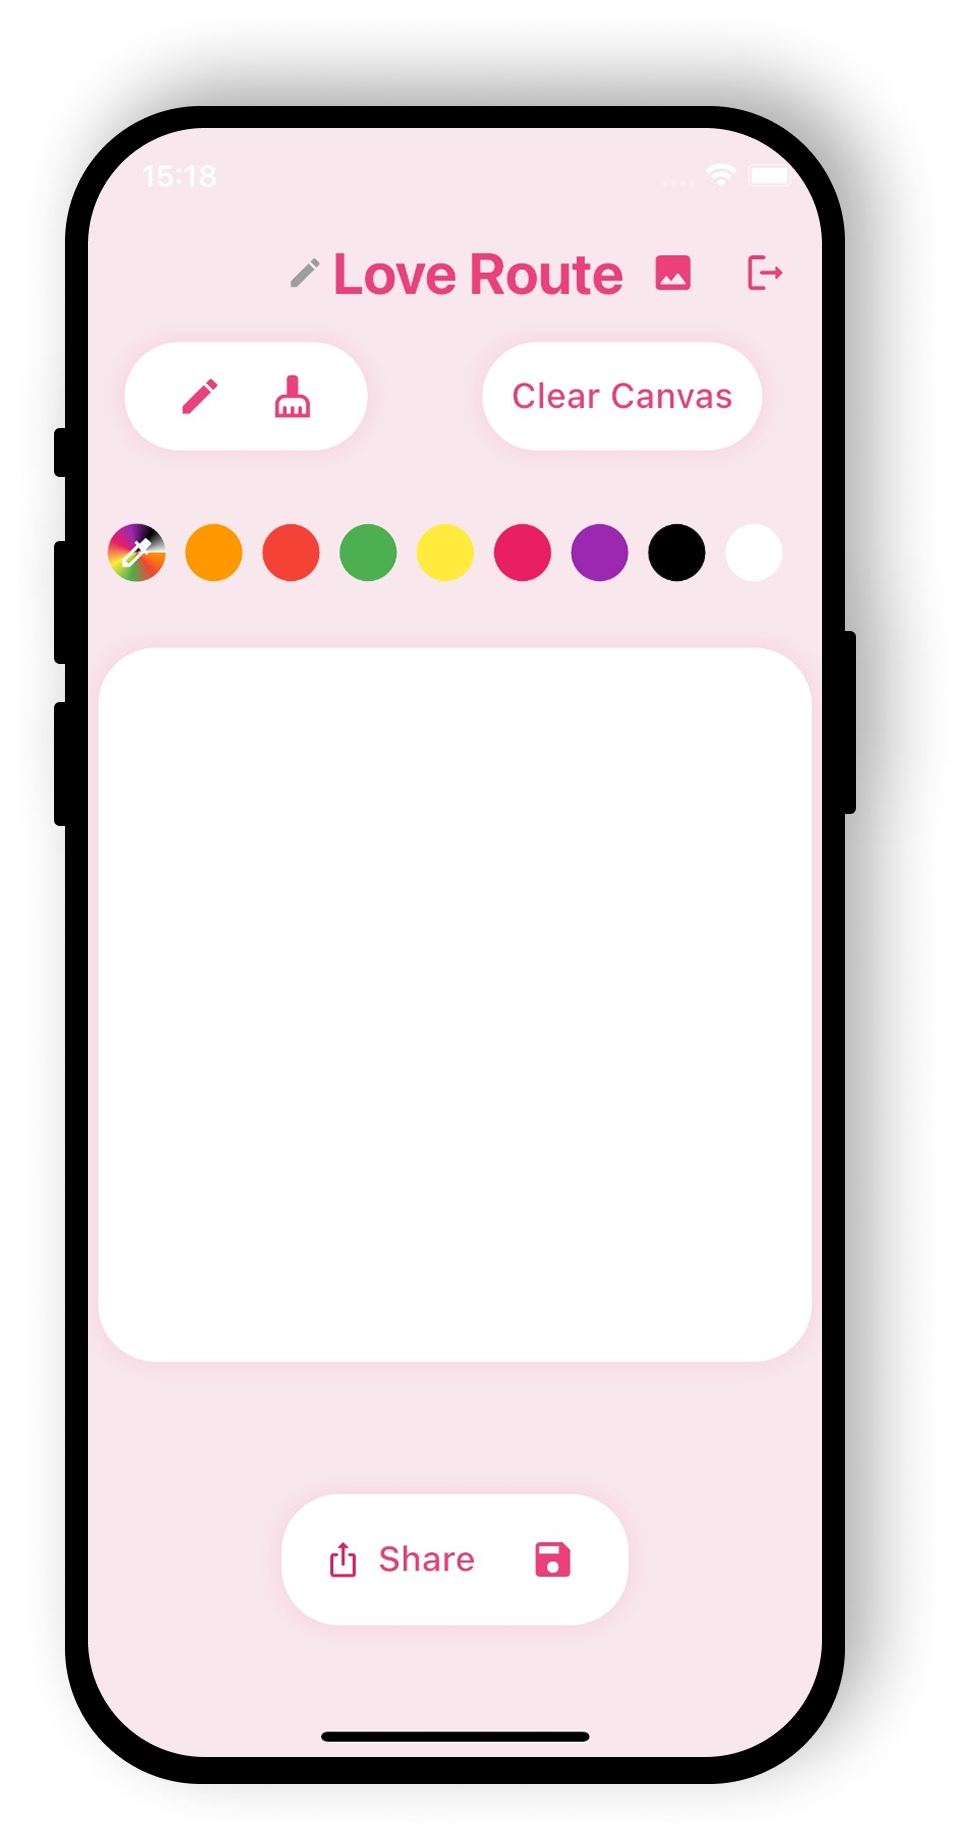
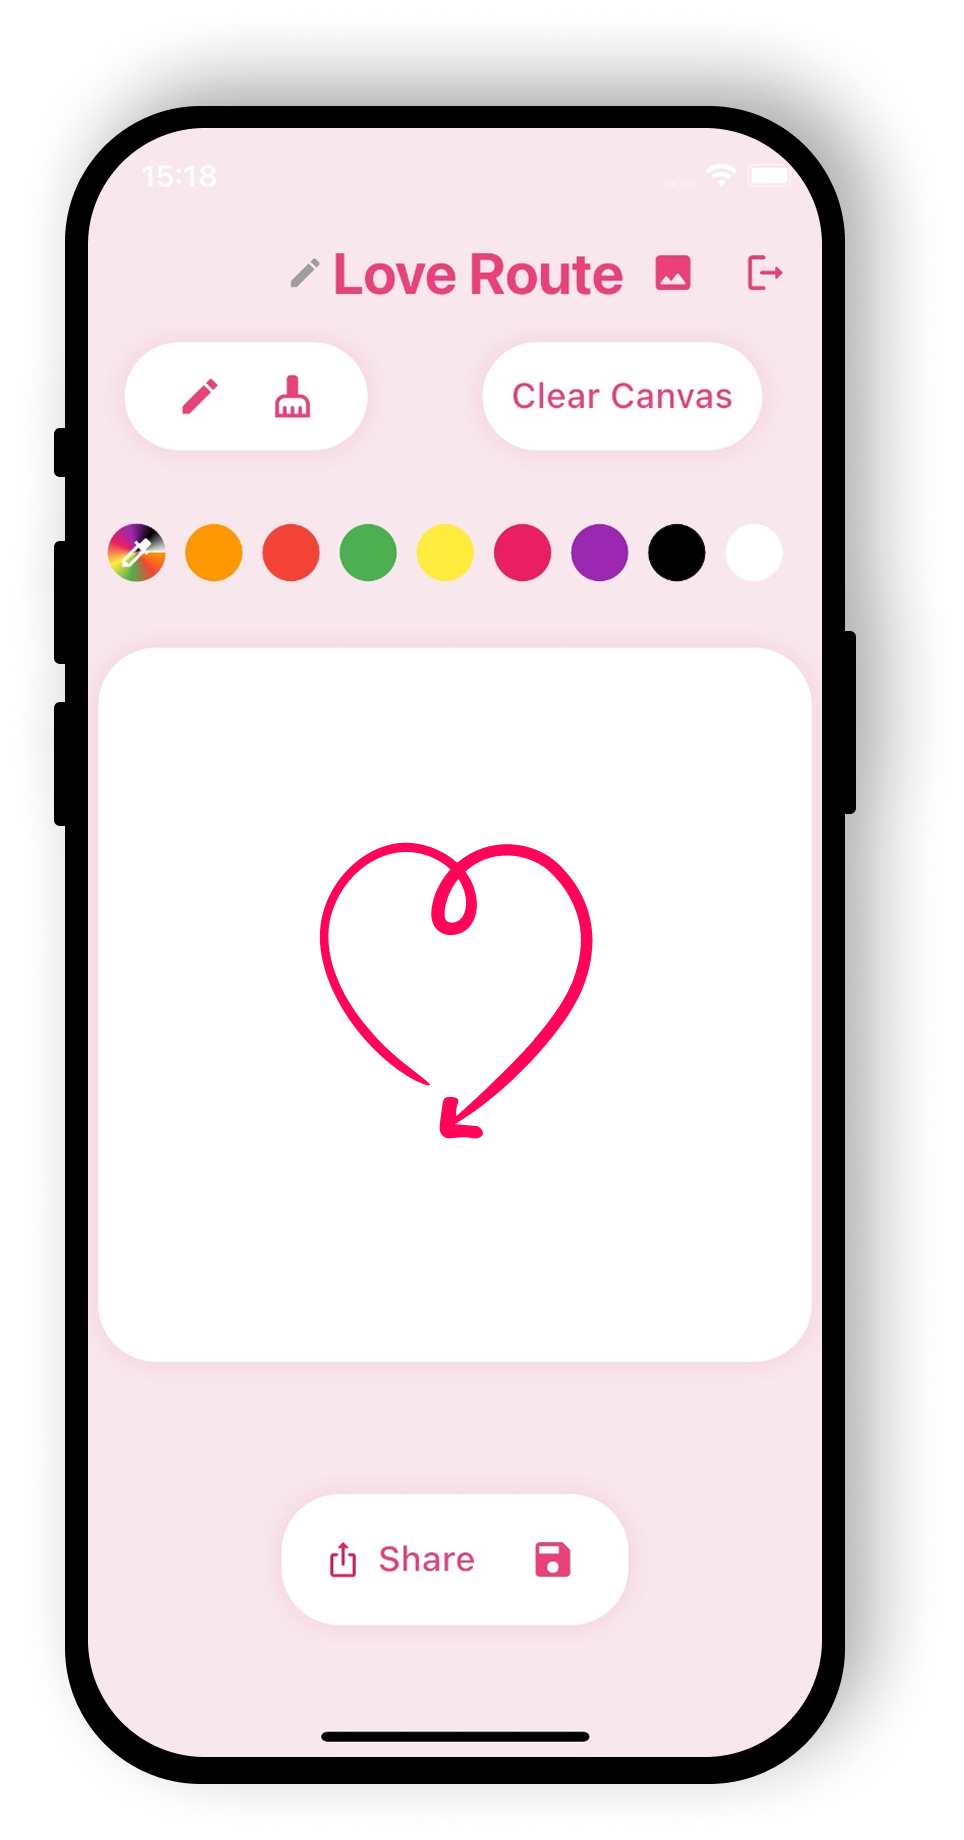
refactor: update layout spacing, simplify form placeholders, and refine scroll navigation logic, along with updated asset image

diff --git a/index.html b/index.html
@@ -116,7 +116,7 @@
       z-index: 1;
       max-width: 900px;
       margin: 0 auto;
-      padding: 80px 40px 120px;
+      padding: 40px 40px 120px;
     }
 
     .page-label {
@@ -209,13 +209,12 @@
 
     /* Features Grid */
     .section {
-      min-height: calc(100vh - 64px);
       display: flex;
       flex-direction: column;
       justify-content: flex-start;
       scroll-margin-top: 64px;
       box-sizing: border-box;
-      padding: 40px 0;
+      padding: 45px 0;
     }
 
     h2 {
@@ -587,7 +586,7 @@
     .carousel-container {
       position: relative;
       max-width: 1000px;
-      margin: 20px auto 0;
+      margin: 20px auto 40;
       overflow: hidden;
     }
 
@@ -961,10 +960,10 @@
 
         <form id="contactForm">
           <div class="form-group">
-            <input type="text" id="name" placeholder="Your Name" required />
+            <input type="text" id="name" placeholder="Name" required />
           </div>
           <div class="form-group">
-            <input type="email" id="email" placeholder="Your Email" required />
+            <input type="email" id="email" placeholder="Email" required />
           </div>
           <div class="form-group">
             <textarea id="message" placeholder="How can we help you?" required></textarea>
@@ -1158,15 +1157,16 @@
         const headerOffset = 64;
         let targetSection = null;
 
-        for (const section of sections) {
+for (const section of sections) {
           const rect = section.getBoundingClientRect();
-          const elementTop = rect.top + scrollPos;
-          if (elementTop > scrollPos + headerOffset + 10) {
+          
+          // Eğer bölümün ekrandaki anlık konumu 150px'ten daha aşağıdaysa 
+          // (yani zaten içinde bulunduğumuz bölüm değilse) onu hedef seç.
+          if (rect.top > 150) {
             targetSection = section;
             break;
           }
         }
-
         if (targetSection) {
           const rect = targetSection.getBoundingClientRect();
           const topOffset = rect.top + window.pageYOffset - headerOffset;